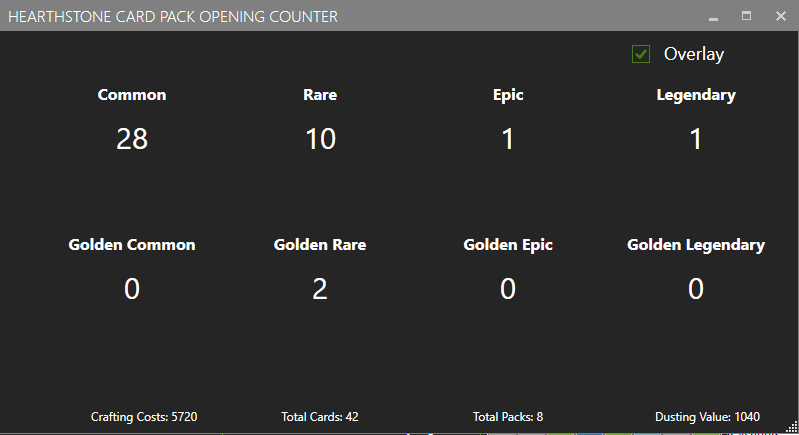
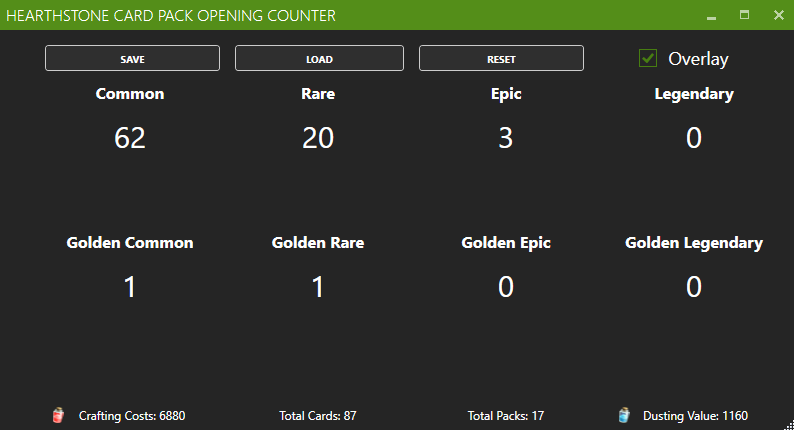
version 1.1.0
* updated README
* updated Images to represent current version of functionalities

diff --git a/MainWindow.xaml b/MainWindow.xaml
@@ -70,7 +70,7 @@
             <Button x:Name="btnSave" Content="Save" Height="26" Width="175" VerticalAlignment="Center" HorizontalAlignment="Center" Margin="40,10,0,0" Click="btnSave_Click"/>
             <Button x:Name="btnLoad" Content="Load" HorizontalAlignment="Center" VerticalAlignment="Center" Height="26" Width="169" Margin="0,10,0,0" Click="btnLoad_Click"/>
             <Button x:Name="btnReset" Content="Reset" HorizontalAlignment="Center" VerticalAlignment="Center" Width="165" Height="26" Margin="0,10,0,0" Click="btnReset_Click"/>
-            <CheckBox x:Name="cbOverlay" Content="Overlay" Width="91" Height="26" HorizontalAlignment="Center" VerticalAlignment="Center" VerticalContentAlignment="Center" HorizontalContentAlignment="Center" FontSize="18" Padding="10,-1,0,0" Margin="34,0,0,0" Unchecked="cbOverlay_Unchecked" Checked="cbOverlay_Checked"/>
+            <CheckBox x:Name="cbOverlay" Content="Overlay" Width="91" Height="26" HorizontalAlignment="Center" VerticalAlignment="Center" VerticalContentAlignment="Center" HorizontalContentAlignment="Center" FontSize="18" Padding="10,-1,0,0" Unchecked="cbOverlay_Unchecked" Checked="cbOverlay_Checked" Margin="40,10,0,0"/>
         </Menu>
     </Grid>
 </mah:MetroWindow>

diff --git a/Properties/AssemblyInfo.cs b/Properties/AssemblyInfo.cs
@@ -32,5 +32,5 @@ using System.Runtime.InteropServices;
 // Sie können alle Werte angeben oder Standardwerte für die Build- und Revisionsnummern verwenden,
 // indem Sie "*" wie unten gezeigt eingeben:
 // [assembly: AssemblyVersion("1.0.*")]
-[assembly: AssemblyVersion("1.0.0.0")]
-[assembly: AssemblyFileVersion("1.0.0.0")]
+[assembly: AssemblyVersion("1.1.0.0")]
+[assembly: AssemblyFileVersion("1.1.0.0")]

diff --git a/README.md b/README.md
@@ -27,13 +27,19 @@ So you have a direct overview of how your pack opening is going.
 
 ![!](Images/cpocOverlay.png "Overlay that sits on top of Hearthstone and be freely positioned")
 
+### Save / Load
+
+The current card count of the different rarities can simply be exported / saved as a file (.hcc / Hearthstone Card Count) file to your desired location via the **Save** button.
+
+This file can then be later imported / loaded via the **Load** button in the main window.
+
 ### Planned
 
 The plugin is currently still under the development meaning more features are planned like:
 
-- Beautify the UI including images and some optimizations
+- Buttons in the UI for the individual rarities to manually add/remove a card
 - Auto Update your HSReplay Collection with the received Cards
-- Export / Import of your opening stats to view older card pack openings
+- ~~Export / Import of your opening stats to view older card pack openings~~ [Implemented with Version 1.1.0]
 - Live Duplicate checking - see how many duplicates you have drawn based on your collection
 
 ## Get Started / Installation
@@ -51,4 +57,4 @@ Feel free to create a Issue on GitHub for found issues or feature requests.
 
 ***
 
-Version: 1.0.0
+Version: 1.1.0
